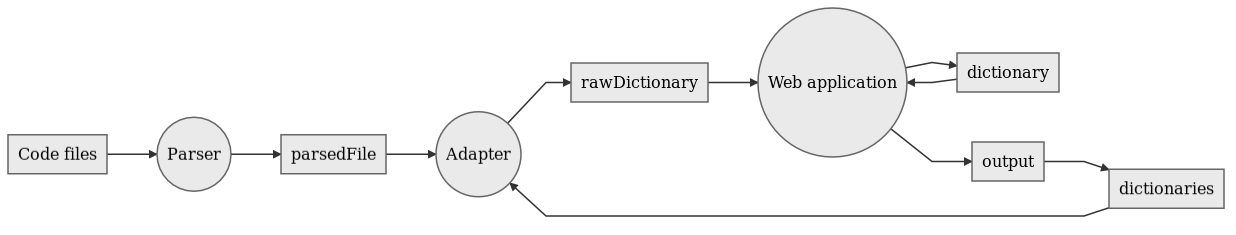
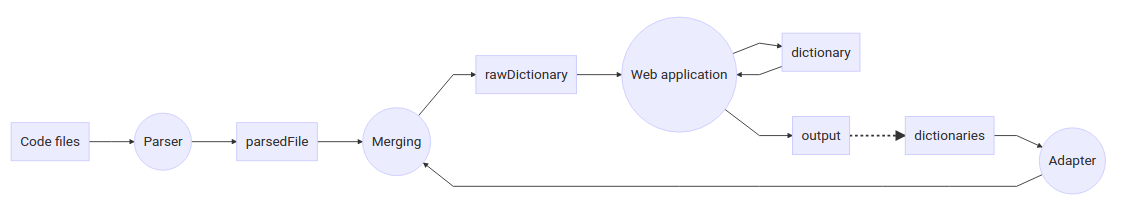
fix parser and adapter

diff --git a/modules/adapter.js b/modules/adapter.js
@@ -70,8 +70,9 @@ Adapter.prototype.init = function() {
 	this.currentItem = new Item();
 };
 
-Adapter.prototype.parseFile = function(path, ctxLabel) {
+Adapter.prototype.parseFile = function(path, ctxLabel, parsedFile) {
 	this.reading.push(path);
+	// console.log('parseFile %s', path)
 
 	fs.readFile(path, {
 		encoding: 'utf8'
@@ -81,7 +82,7 @@ Adapter.prototype.parseFile = function(path, ctxLabel) {
 		if (err) {
 			console.error(err);
 		} else {
-			this._analyzeFile(data, ctxLabel);
+			this._analyzeFile(data, ctxLabel, parsedFile);
 		}
 		this.reading.splice(index, 1);
 
@@ -97,7 +98,8 @@ Adapter.prototype.writeParsed = function() {
 	var configParsed;
 
 	if (this.reading.length === 0) {
-		configParsed = configuration.path.rawDictionary
+		// console.log('Write parse File')
+		configParsed = configuration.path.rawDictionary;
 		fs.writeFile(configParsed, JSON.stringify(this.data), {
 			flags: 'w',
 			defaultEncoding: 'utf8',
@@ -128,71 +130,110 @@ Adapter.prototype.setRules = function(rules) {
 				this.rules[x] = rules[x];
 			}
 		}
+	} else {
+		this.rules = tool.extend({}, configuration.adapter.rules);
 	}
 };
 
-Adapter.prototype._analyzeFile = function(file, ctxLabel) {
-	var items = file.split(this.rules.newItem);
+Adapter.prototype._analyzeFile = function(file, ctxLabel, parsedFile) {
+	var items;
+
+	if (parsedFile) {
+		items = JSON.parse(file);
+	} else {
+		items = file.split(this.rules.newItem);
+	}
+	// console.log('length: %s → %s', items.length, this.rules.newItem.toString())
 
 	items.forEach(function(chunk) {
 		this._newItem();
 		var parser, part;
 
 		/* look for key */
-		parser = chunk.match(this.rules.getKey);
+		if (parsedFile) {
+			this.currentItem.key = chunk.key;
+		} else {
+			parser = chunk.match(this.rules.getKey);
+			// console.log('chunk: \n%s\nregexp: %s', chunk, this.rules.getKey)
 
-		if (!parser || !parser[1]) {
-			return;
+			if (!parser || !parser[1]) {
+				return;
+			}
+
+			this.currentItem.key = clean(parser[1]);
 		}
 
-		this.currentItem.key = clean(parser[1]);
-
 		/* look for context */
-		parser = chunk.match(this.rules.getContext);
+		if (parsedFile) {
+			this.currentItem.context = chunk.context;
+		} else {
+			parser = chunk.match(this.rules.getContext);
 
-		if (parser && parser[1]) {
-			this.currentItem.context = clean(parser[1]);
+			if (parser && parser[1]) {
+				this.currentItem.context = clean(parser[1]);
+			}
 		}
 
 		/* look for label(s) */
-		if (ctxLabel) {
-			parser = chunk.match(this.rules.getLabel);
-
-			if (parser && parser[1]) {
-				this.currentItem.addLabel(ctxLabel, clean(parser[1]));
+		if (parsedFile) {
+			if (chunk.labels) {
+				tool.each(chunk.labels, function(label, lng) {
+					this.currentItem.addLabel(lng, label);
+				}, this);
 			}
 		} else {
-			parser = chunk.match(this.rules.getLabels);
+			if (ctxLabel) {
+				parser = chunk.match(this.rules.getLabel);
 
-			if (parser) {
-				if (parser[1] && parser[2]) {
-					this.currentItem.addLabel(parser[1], clean(parser[2]));
-				} else if(parser[1] && this.rules.getLabel.global) {
-					// look for each labels
-					part = parser[1];
-					while(parser = this.rules.getLabel.exec(part)) {
-						if (parser[1] && parser[2]) {
-							this.currentItem.addLabel(parser[1], clean(parser[2]));
+				if (parser && parser[1]) {
+					this.currentItem.addLabel(ctxLabel, clean(parser[1]));
+				}
+			} else {
+				parser = chunk.match(this.rules.getLabels);
+				// if (this.currentItem.key === '%{.2}d%%') {
+				// 	console.log('chunk:\n%s\nregexp: %s\nresult:\n%s',chunk,this.rules.getLabels, parser)
+				// }
+
+				// console.log('ADAPATER XXX %s --- %s',this.currentItem.key,parser && parser.length)
+
+
+				if (parser) {
+					if (parser[1] && parser[2]) {
+						this.currentItem.addLabel(parser[1], clean(parser[2]));
+					} else if(parser[1] && this.rules.getLabel.global) {
+				// console.log('ADAPATER XXX %s --- %s',this.currentItem.key,parser && parser.length)
+						// look for each labels
+						part = parser[1];
+						while(parser = this.rules.getLabel.exec(part)) {
+							if (parser[1] && parser[2]) {
+								this.currentItem.addLabel(parser[1], clean(parser[2]));
+							}
 						}
+						this.rules.getLabel.lastIndex = 0; // restore the index of the rgx
 					}
-					this.rules.getLabel.lastIndex = 0; // restore the index of the rgx
 				}
 			}
 		}
 
 		/* look for file(s) */
-		parser = chunk.match(this.rules.getFiles);
+		if (parsedFile) {
+			chunk.files.forEach(function(file) {
+				this.currentItem.addFile(file);
+			}, this);
+		} else {
+			parser = chunk.match(this.rules.getFiles);
 
-		if (parser) {
-			if(parser[1] && this.rules.getFile.global) {
-				// look for each file
-				part = parser[1];
-				while(parser = this.rules.getFile.exec(part)) {
-					if (parser[1]) {
-						this.currentItem.addFile(clean(parser[1]));
+			if (parser) {
+				if(parser[1] && this.rules.getFile.global) {
+					// look for each file
+					part = parser[1];
+					while(parser = this.rules.getFile.exec(part)) {
+						if (parser[1]) {
+							this.currentItem.addFile(clean(parser[1]));
+						}
 					}
+					this.rules.getLabel.lastIndex = 0; // restore the index of the rgx
 				}
-				this.rules.getLabel.lastIndex = 0; // restore the index of the rgx
 			}
 		}
 

diff --git a/main.js b/main.js
@@ -13,6 +13,8 @@ var eventEmitter;
 var parser;
 var adapter;
 
+var hasParser = true;
+
 var version = '1.0.0';
 
 /**
@@ -52,11 +54,13 @@ function parseFiles(callback) {
     }
 
     if (configuration.path.parser.files.length > 0) {
+        hasParser = true;
         eventEmitter.once('parsed:parser', function() {
             runAdapter(adapter);
         });
         runParser(parser);
     } else {
+        hasParser = false;
         runAdapter(adapter);
     }
 }
@@ -66,10 +70,12 @@ function runParser(parser) {
 }
 
 function runAdapter(adapter) {
-    var lng, dictionaries;
+    var lng, dictionaries, parsed;
+
+    // adapter.setRules();
 
     function parseFile(dictionary) {
-        adapter.parseFile(dictionary, lng);
+        adapter.parseFile(dictionary, lng, parsed);
     }
 
     dictionaries = configuration.path.dictionaries.globals;
@@ -97,7 +103,8 @@ function runAdapter(adapter) {
     }
 
     dictionaries = configuration.path.parsedFile;
-    if (typeof dictionaries === 'string') {
+    if (hasParser && typeof dictionaries === 'string') {
+        parsed = true;
         parseFile(dictionaries);
     }
 

diff --git a/modules/tools.js b/modules/tools.js
@@ -16,6 +16,20 @@ exports.extend = function extend(obj1, obj2) {
 	return obj1;
 };
 
+/* Allow to loop on object keys
+ */
+exports.each = function(obj, callback, ctx) {
+	var x;
+
+	ctx = ctx || obj;
+
+	for(x in obj) {
+		if (obj.hasOwnProperty(x)) {
+			callback.call(ctx, obj[x], x, obj);
+		}
+	}
+};
+
 /* Prepare a string to be regexpify.
  * Special characters are escaped
  * All wildcards '*' are changed into '.*' */

diff --git a/modules/configuration.js b/modules/configuration.js
@@ -111,6 +111,7 @@ configuration.readConfig = function(configPath) {
 	configuration.refPath = refPath;
 
 	try {
+		console.log('fileConfiguration %s', configPath)
 		fileConfiguration = fs.readFileSync(configPath, {
 			encoding: 'utf8'
 		});

diff --git a/modules/initialization.js b/modules/initialization.js
@@ -48,6 +48,10 @@ function createFile(path, content) {
 }
 
 function checkFile(path, defaultContent) {
+	if (path[path.length - 1] === '/') {
+		return;
+	}
+
 	fs.stat(path, function(err, stat) {
 		if (err) {
 			if (err.errno === -2) {

diff --git a/README.md b/README.md
@@ -154,6 +154,14 @@ This is a json file with the following attributes. All attributes are optional, 
 
 * adapter: This object contains all configuration related to adapter (its goal is to interprete the dictionary input).
     * rules: This is an object containing all rules to read the dictionary files
+        * newItem: The separator between 2 items
+        * getKey: The rule to retrieve the sentence key
+        * getContext: the rule to retrieve the sentence context
+        * getLabels: delimit the part where labels are defined
+        * getLabel: Retrieve the translation of the syntax. If the RegExp is Global (flag g) it retrieve also the key language
+        * getFiles: delimit the part where files associated to this sentence ar defined
+        * getFile: retrieve the files associated to this sentence (it should have flag g).
+        * cleanResult: this rule is to clean results for example to get a simple " from \". This rule is a double array. The first value of each item is the string to replace (please note that it is parsed in a RegExp), and the second is the replacement to do. E.g. [["\\\\\"", "\""]] (because the final RegExp will be /\\"/).
 
 * replacements: This object contains all rules for replacements. A rule is an object containing 3 attributes:
     * pattern: the pattern to look for (a regular expression)
